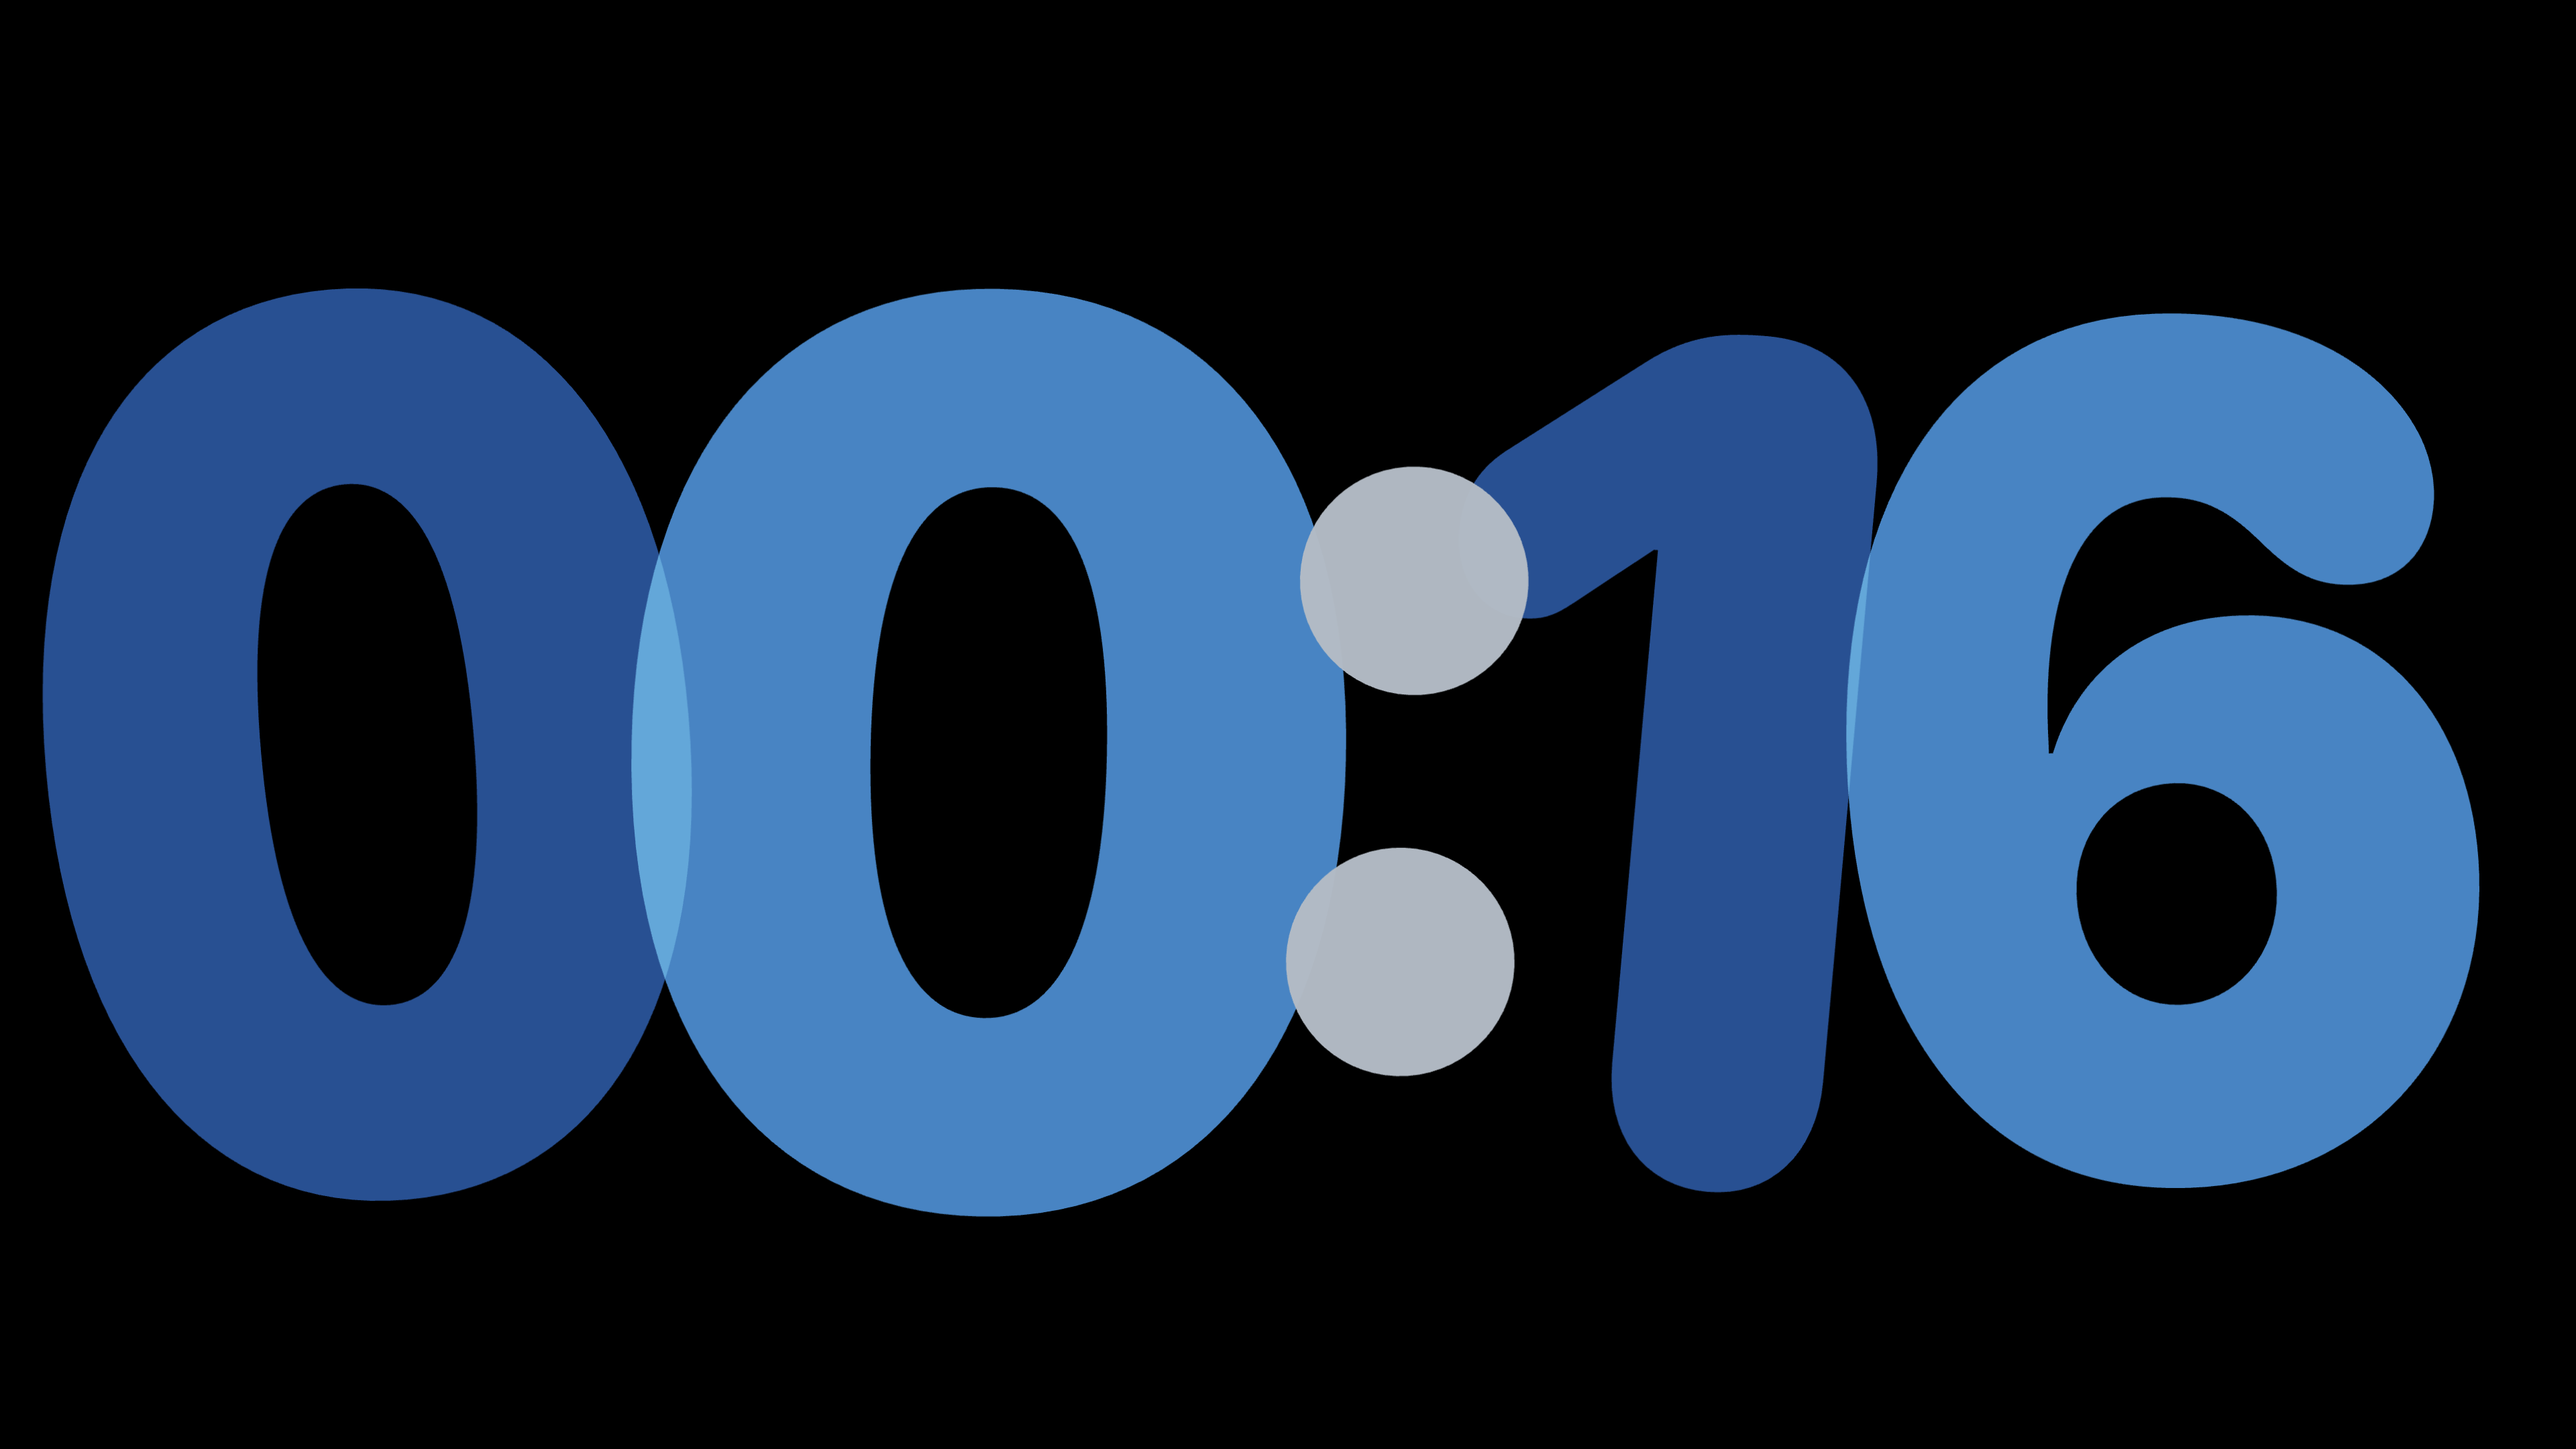
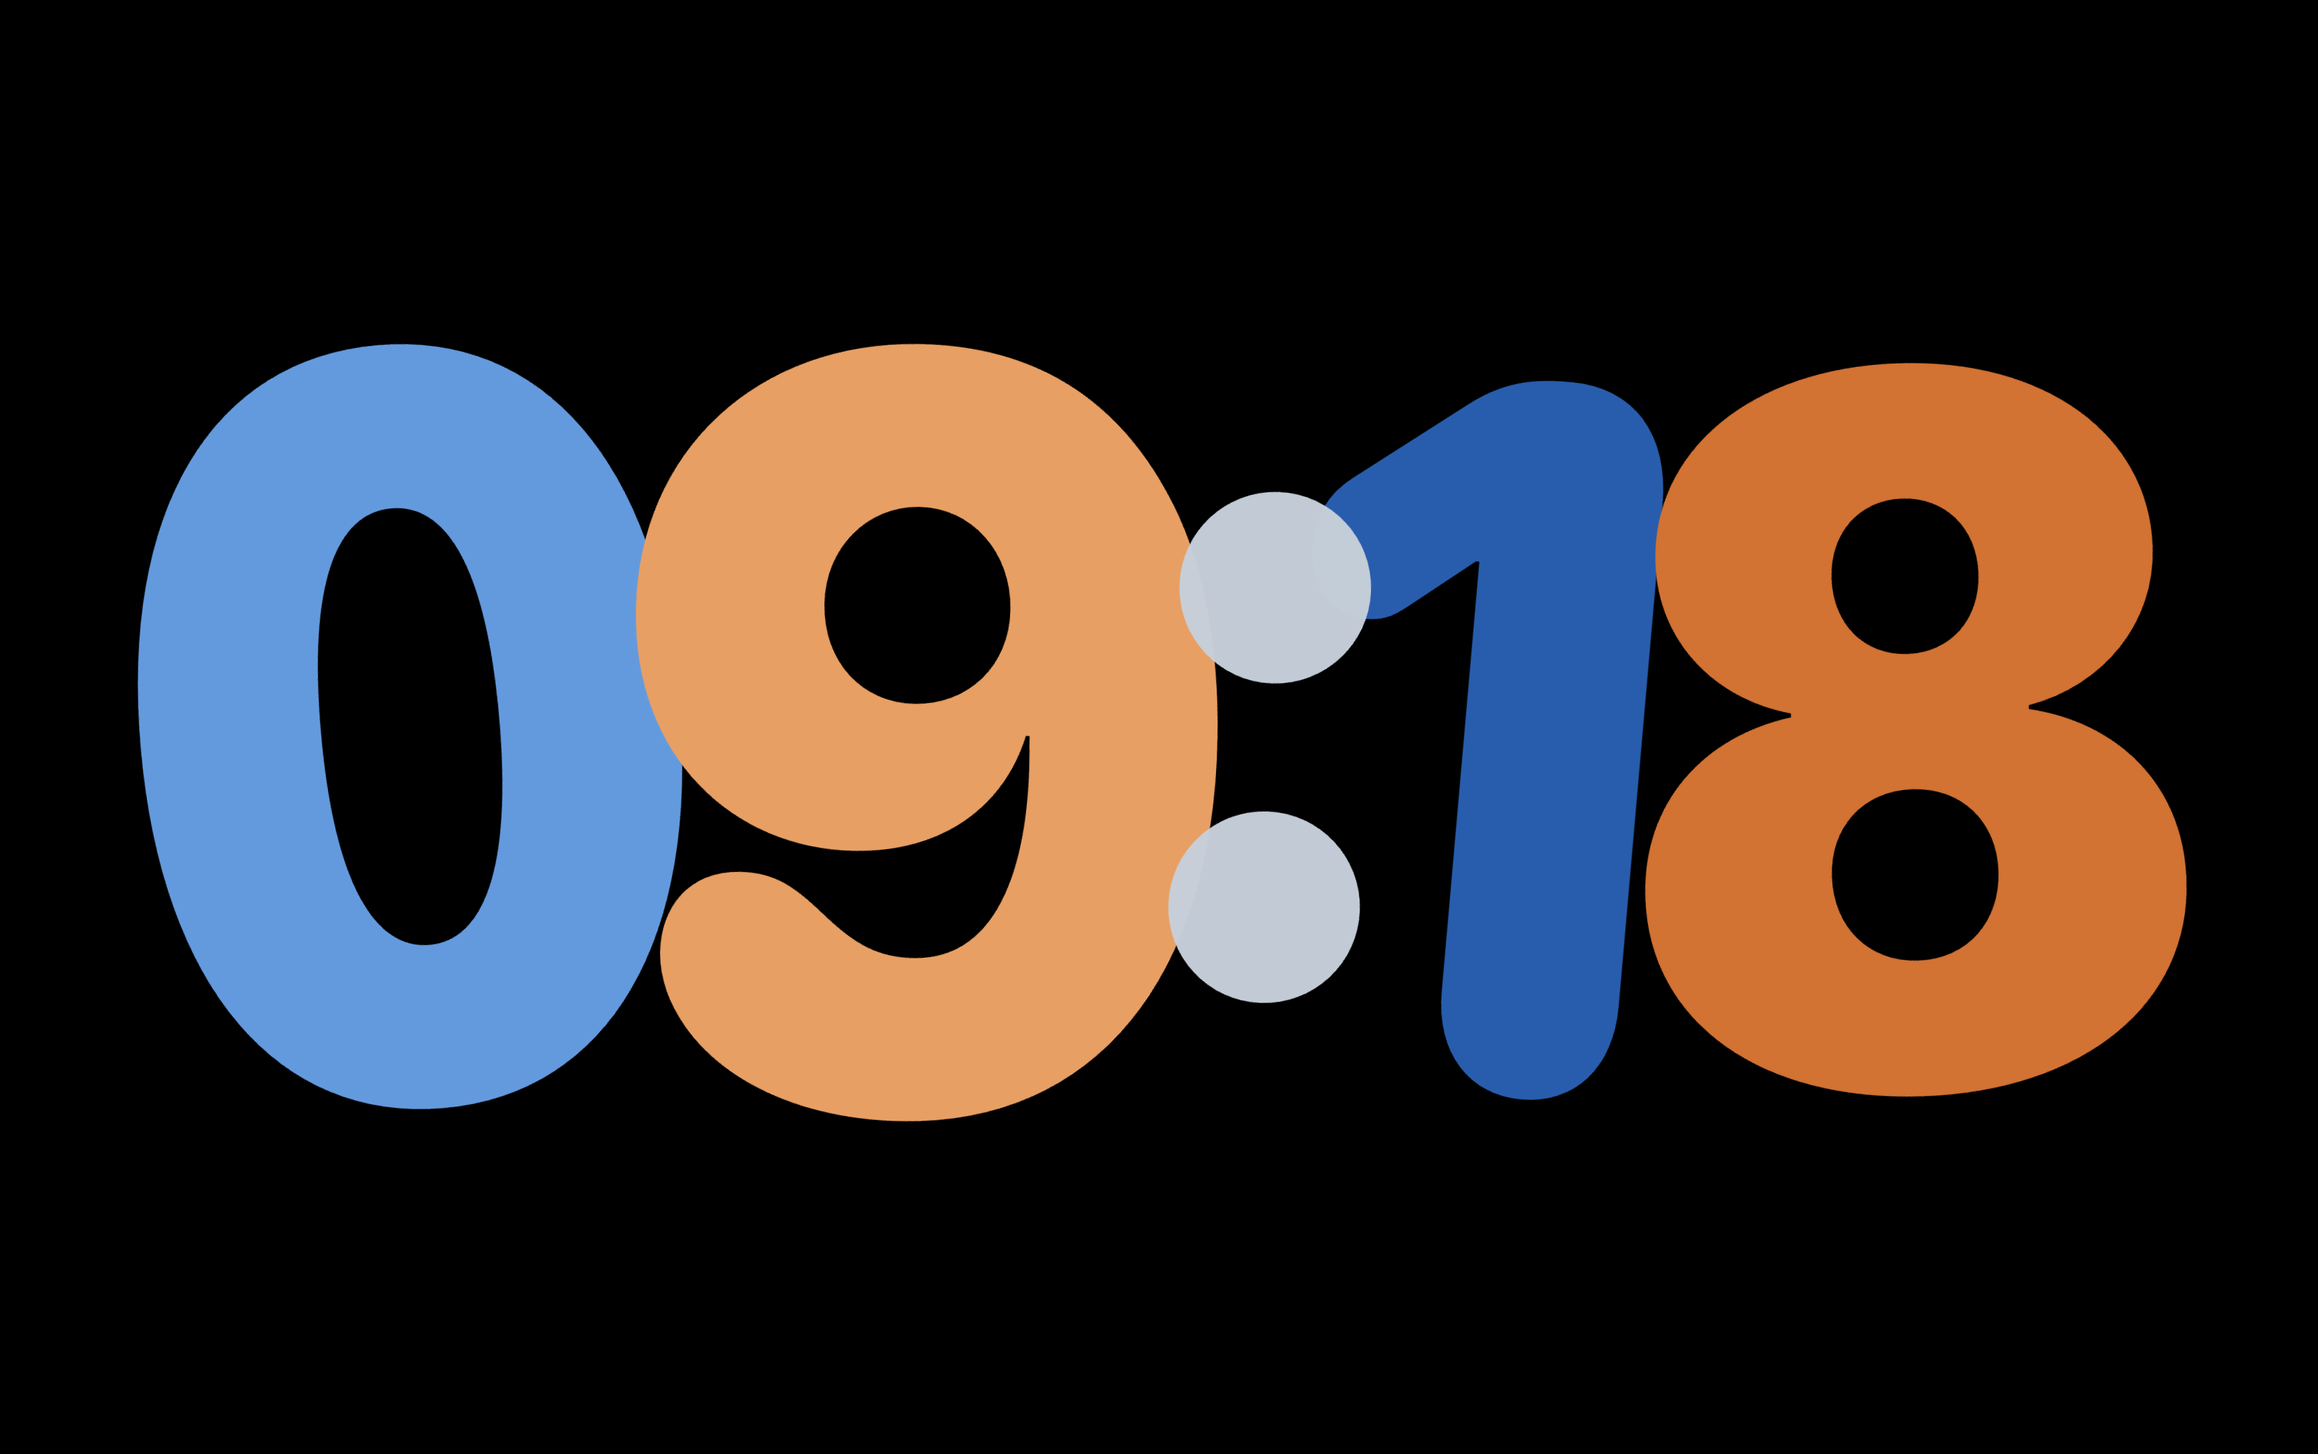
Show all four clock faces in the README screenshots.

diff --git a/README.md b/README.md
@@ -13,10 +13,11 @@ Standby Web
 <a href="/CONTRIBUTING.md" title="Go to contributions doc"><img src="https://img.shields.io/badge/contributions-welcome-blue" alt="contributions - welcome"></a>
 <a href="#license"><img src="https://img.shields.io/badge/License-Apache%202.0-blue.svg" alt="License"></a>
 </p>
-
 ## Screenshot
 
-![Float](web/Screenshot/Float.png)
+|![Float](web/Screenshot/Float.png)|![Numerical](web/Screenshot/Numerical.png)|
+| ---- | ---- |
+|![Analog](web/Screenshot/Analog.png)|![World](web/Screenshot/World.png)|
 
 ## See Also
 
